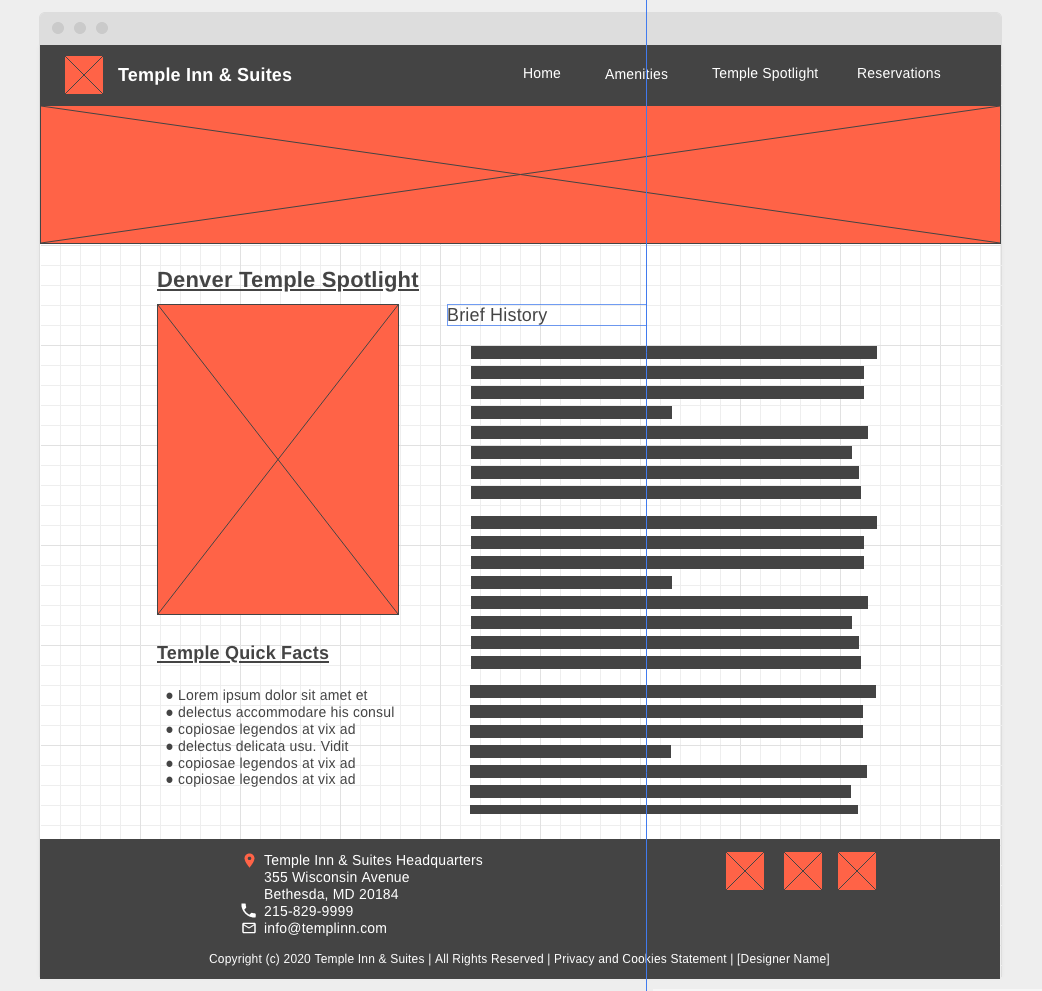
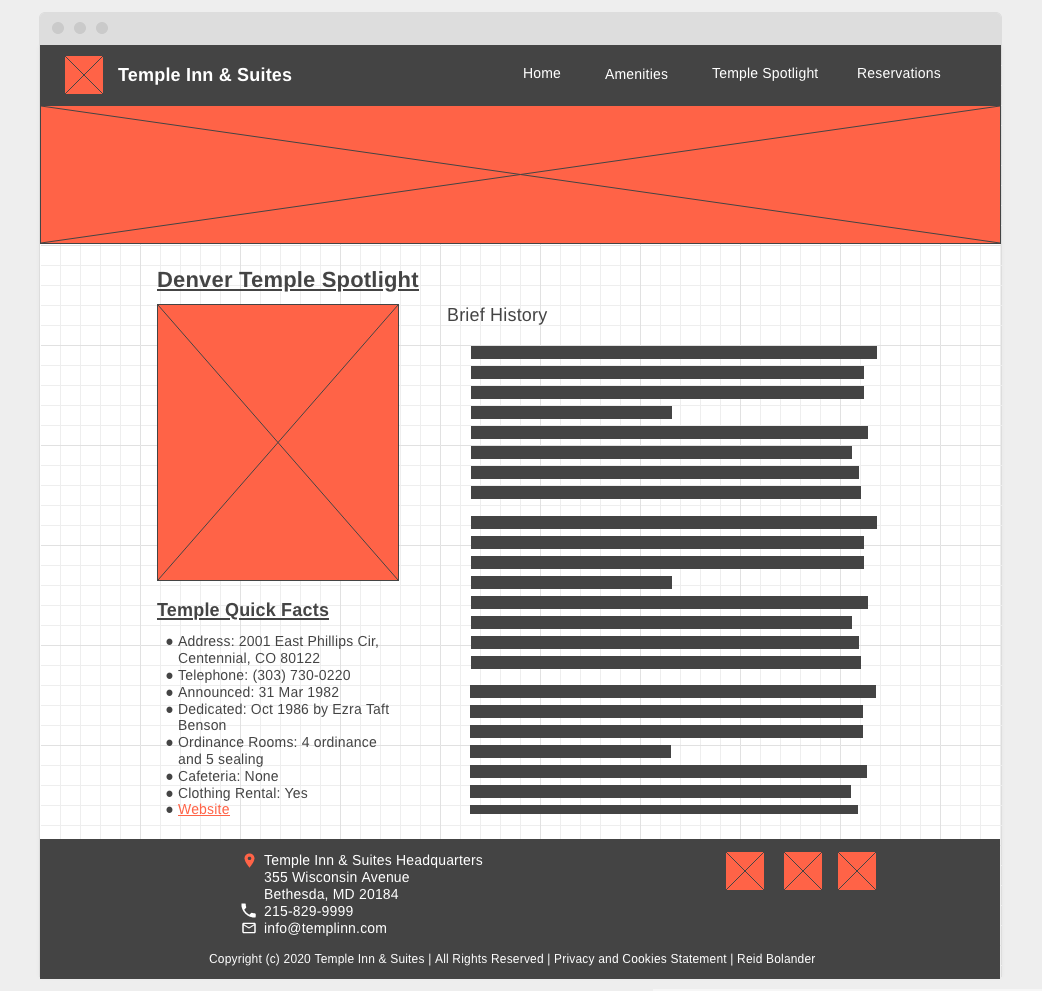
added wireframe to other pages

diff --git a/index.html b/index.html
@@ -23,6 +23,7 @@
           <li>Week 6.2: <a href="./week6-layout.html">CSS Layout Part 2 - Asignment</a></li>
           <li>Week 6.3: <a href="./project">Temple Inn & Suites - Cleanup of some HTML issues identified in assignment feedback</a></li>
           <li>Week 7.1: <a href="./project">Temple Inn & Suites - Assignment: Finish the Project Home Page</a></li>
+          <li>Week 8.1: <a href="./site-plan.html">Wireframes of 'Amenities' and 'Temple Spotlight' pages added to Site Plan</a></li>
         </ul>
       </main>
       <footer>

diff --git a/site-plan.html b/site-plan.html
@@ -67,7 +67,10 @@
         <h3>Site Map</h3>
         <p>Coming soon ...</p>
         <h3>Wireframes</h3>
+        <h4>Main Page</h4>
         <p><img src="images/wireframe-large.png" alt="Temple Inn Site Large Wireframe"></p>
+        <h4>Temple Spotlight</h4>
+        <p><img src="images/wireframe-temple-spotlight.png" alt="Temple Spotlight Wireframe"></p>
     </main>
     <footer>Reid Bolander | BYU-Idaho | WDD 130 - Web Fundamentals</footer>
 </body>
